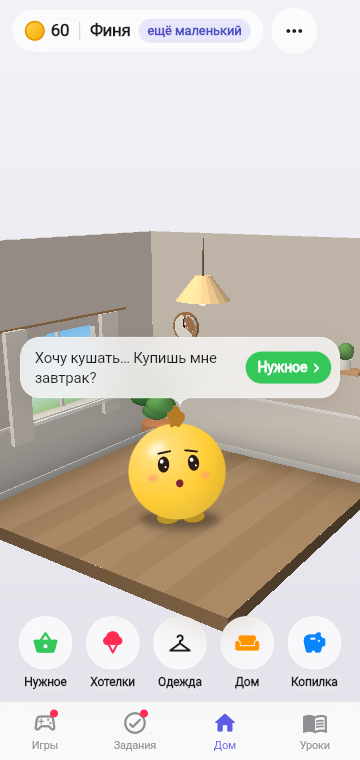
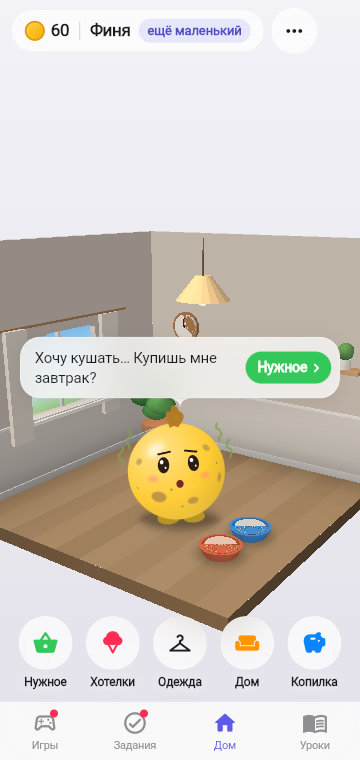
F-027: needs visible in the room — food and water bowls empty/full by today's purchases, grubby pet (mud spots, smell lines) until care is bought; business docs updated

diff --git a/client/lib/ui/room3d/room_builder.dart b/client/lib/ui/room3d/room_builder.dart
@@ -3,6 +3,7 @@ import 'dart:ui';
 
 import '../../store/snapshot.dart';
 import 'math3d.dart';
+import '../../game/bowls.dart';
 import 'mesh.dart';
 import 'renderer.dart';
 
@@ -22,7 +23,7 @@ abstract final class RoomBuilder {
   static const _lampPos = Vec3(-1.2, 0, 0.95);
   static const _pendantPos = Vec3(0.2, 2.75, -0.2);
 
-  static List<Mesh> build({required Inventory inventory, int room = 1, bool night = false}) {
+  static List<Mesh> build({required Inventory inventory, int room = 1, bool night = false, Bowls bowls = const Bowls()}) {
     final play = room == 2;
     final meshes = <Mesh>[];
     _shell(meshes, play: play, night: night);
@@ -44,8 +45,34 @@ abstract final class RoomBuilder {
           _console(meshes);
       }
     }
+    _bowls(meshes, bowls);
     _pendant(meshes, night: night);
     return meshes;
+  }
+
+  /// Миски справа от героя: еда (тёплая керамика) и вода (голубая). Пустые — видно дно.
+  static void _bowls(List<Mesh> m, Bowls b) {
+    const food = Vec3(1.25, 0, 0.95);
+    const water = Vec3(1.3, 0, 0.35);
+    for (final (at, rim, inside) in [
+      (food, const Color(0xFFE8744F), const Color(0xFFF7D9C9)),
+      (water, const Color(0xFF4C9BE8), const Color(0xFFE9E7E3)),
+    ]) {
+      m.add(Mesh.cylinder(0.2, 0.12, rim, seg: 22, topR: 0.26).translated(at));
+      // Внутренность миски: светлое дно с тёмным ободком — видно, что пусто.
+      m.add(Mesh.cylinder(0.225, 0.003, Color.lerp(rim, const Color(0xFF000000), 0.25)!, seg: 22, castShadow: false).translated(at + const Vec3(0, 0.12, 0)));
+      m.add(Mesh.cylinder(0.19, 0.004, inside, seg: 22, castShadow: false).translated(at + const Vec3(0, 0.121, 0)));
+    }
+    if (b.food) {
+      m.add(Mesh.sphere(0.19, const Color(0xFFF1C27D), lat: 6, lon: 14, castShadow: false).scaled(const Vec3(1, 0.4, 1)).translated(food + const Vec3(0, 0.1, 0)));
+      for (final (dx, dz) in [(-0.06, 0.03), (0.05, -0.04), (0.02, 0.07)]) {
+        m.add(Mesh.sphere(0.035, const Color(0xFFD6334F), lat: 4, lon: 6, castShadow: false).translated(food + Vec3(dx, 0.17, dz)));
+      }
+    }
+    if (b.water) {
+      m.add(Mesh.cylinder(0.215, 0.006, const Color(0xFF38A8FF), seg: 22, castShadow: false).translated(water + const Vec3(0, 0.126, 0)));
+      m.add(Mesh.cylinder(0.07, 0.004, const Color(0xFFE6F6FF), seg: 10, castShadow: false).translated(water + const Vec3(-0.06, 0.133, -0.05)));
+    }
   }
 
   static Lighting lighting({required Inventory inventory, int room = 1, bool night = false}) {

diff --git a/client/lib/ui/mascot/mascot_painter.dart b/client/lib/ui/mascot/mascot_painter.dart
@@ -65,6 +65,7 @@ final class MascotPainter extends CustomPainter {
     _back(canvas);
     _body(canvas);
     if (look.isMonkey) _muzzle(canvas);
+    if (look.grubby) _mud(canvas);
     _cheeks(canvas);
     if (look.isCat) _whiskers(canvas);
     _eyes(canvas);
@@ -72,6 +73,7 @@ final class MascotPainter extends CustomPainter {
     _mouth(canvas);
     if (look.hasHair) _hair(canvas, front: true);
     _accessories(canvas);
+    if (look.grubby) _stink(canvas);
     canvas.restore();
   }
 
@@ -337,6 +339,45 @@ final class MascotPainter extends CustomPainter {
       for (final tilt in [-0.07, 0.07]) {
         canvas.drawLine(p.offset, p.offset + Offset(side * _r * 0.42, tilt * _r * 1.6), paint);
       }
+    }
+  }
+
+  // ---------- Неухоженный (F-027) ----------
+
+  /// Мультяшные пятна грязи: мягкие, не страшные.
+  void _mud(Canvas canvas) {
+    const mud = Color(0xFF8B6A4A);
+    for (final (lat, lon, ry, rx, a) in const [
+      (-0.55, -0.55, 0.13, 0.17, 0.55),
+      (-0.7, 0.35, 0.09, 0.12, 0.5),
+      (0.45, 0.75, 0.08, 0.1, 0.45),
+      (-0.2, 1.05, 0.1, 0.08, 0.5),
+      (0.25, -0.95, 0.07, 0.09, 0.45),
+    ]) {
+      _patch(canvas, lat, lon, ry, rx, mud.withValues(alpha: a), blur: 0.012);
+    }
+    // брызги
+    for (final (lat, lon) in const [(-0.4, -0.2), (-0.85, 0.05), (0.1, 0.95), (-0.3, -1.1)]) {
+      _patch(canvas, lat, lon, 0.025, 0.025, mud.withValues(alpha: 0.6));
+    }
+  }
+
+  /// Волнистые линии «запаха» над головой.
+  void _stink(Canvas canvas) {
+    final paint = Paint()
+      ..color = const Color(0xFF7FA34A).withValues(alpha: 0.75)
+      ..style = PaintingStyle.stroke
+      ..strokeWidth = _r * 0.045
+      ..strokeCap = StrokeCap.round;
+    // По бокам головы, чтобы не прятались под облачком реплики.
+    for (final dx in [-1.08, -0.9, 0.9, 1.08]) {
+      final x0 = _c.dx + dx * _r + sin(pose.yaw * 3 + dx) * _r * 0.04;
+      final y0 = _c.dy - _r * (dx.abs() > 1 ? 0.2 : 0.55);
+      final path = Path()..moveTo(x0, y0);
+      for (var k = 1; k <= 5; k++) {
+        path.lineTo(x0 + sin(k * 1.5 + dx * 5) * _r * 0.06, y0 - k * _r * 0.075);
+      }
+      canvas.drawPath(path, paint);
     }
   }
 

diff --git a/client/lib/ui/room/room_scene.dart b/client/lib/ui/room/room_scene.dart
@@ -1,3 +1,4 @@
+import '../../game/bowls.dart';
 import 'dart:math';
 
 import 'package:flutter/scheduler.dart';
@@ -21,9 +22,13 @@ class RoomScene extends StatefulWidget {
     this.heroScale = 0.56,
     this.feetY = 0.68,
     this.animated = true,
+    this.bowls = const Bowls(),
   });
 
   final Inventory inventory;
+
+  /// Миски с едой и водой: полные, если нужное куплено (F-027).
+  final Bowls bowls;
   final int room;
   final bool night;
   final Widget? hero;
@@ -84,10 +89,10 @@ class _RoomSceneState extends State<RoomScene> with SingleTickerProviderStateMix
 
   void _ensureScene() {
     final inv = widget.inventory;
-    final key = '${inv.owned.toList()..sort()}|${inv.furniture}|${widget.room}|${widget.night}';
+    final key = '${inv.owned.toList()..sort()}|${inv.furniture}|${widget.room}|${widget.night}|${widget.bowls.key}';
     if (key == _key) return;
     _key = key;
-    _meshes = RoomBuilder.build(inventory: inv, room: widget.room, night: widget.night);
+    _meshes = RoomBuilder.build(inventory: inv, room: widget.room, night: widget.night, bowls: widget.bowls);
     _lighting = RoomBuilder.lighting(inventory: inv, room: widget.room, night: widget.night);
   }
 

diff --git a/client/lib/game/game_controller.dart b/client/lib/game/game_controller.dart
@@ -10,6 +10,7 @@ import '../store/profile_store.dart';
 import '../store/snapshot.dart';
 import 'game_feedback.dart';
 import 'quests.dart';
+import 'bowls.dart';
 
 /// Единая точка изменения состояния игры (SA F-006).
 final class GameController extends ChangeNotifier {
@@ -47,6 +48,13 @@ final class GameController extends ChangeNotifier {
   int get todaysNeedSum => todaysNeeds.fold(0, (s, i) => s + i.price);
   bool isBoughtToday(String itemId) => snapshot.boughtToday.contains(itemId);
   bool get needsDone => todaysNeeds.every((i) => isBoughtToday(i.id));
+
+  // Потребности видны в комнате (SA F-027).
+  bool _needToday(String id) => todaysNeeds.any((i) => i.id == id);
+  bool get foodServed => isBoughtToday('breakfast');
+  bool get waterServed => !_needToday('water') || isBoughtToday('water');
+  bool get isGrubby => _needToday('care') && !isBoughtToday('care');
+  Bowls get bowls => Bowls(food: foodServed, water: waterServed);
 
   // Сначала нужное (SA F-021).
   List<ShopItem> get needsLeft => [for (final i in todaysNeeds) if (!isBoughtToday(i.id)) i];

diff --git a/client/test/ui/room3d_test.dart b/client/test/ui/room3d_test.dart
@@ -4,6 +4,7 @@ import 'package:finni/ui/room3d/math3d.dart';
 import 'package:finni/ui/room3d/mesh.dart';
 import 'package:finni/ui/room3d/renderer.dart';
 import 'package:finni/ui/room3d/room_builder.dart';
+import 'package:finni/game/bowls.dart';
 import 'package:flutter/widgets.dart';
 import 'package:flutter_test/flutter_test.dart';
 
@@ -85,6 +86,14 @@ void main() {
       for (final f in ['sofa', 'shelf', 'tv', 'console']) {
         expect(count(Inventory.empty.copyWith(furniture: f)), greaterThan(empty), reason: f);
       }
+    });
+
+    test('full bowls add food and water to the room (F-027)', () {
+      int bowls(Bowls b, {int room = 1}) => RoomBuilder.build(inventory: Inventory.empty, room: room, bowls: b).length;
+      final empty = bowls(const Bowls(food: false, water: false));
+      expect(bowls(const Bowls(food: true, water: false)), greaterThan(empty));
+      expect(bowls(const Bowls(food: false, water: true)), greaterThan(empty));
+      expect(bowls(const Bowls(), room: 2), greaterThan(bowls(const Bowls(food: false, water: false), room: 2)));
     });
 
     test('playroom is a different scene', () {

diff --git a/client/test/game/game_controller_test.dart b/client/test/game/game_controller_test.dart
@@ -379,6 +379,25 @@ void main() {
     expect(game.mood, PetMood.glad);
   });
 
+  test('needs show in the room: bowls and grooming (F-027)', () async {
+    // день 1: завтрак, вода, уход
+    expect(game.foodServed, isFalse);
+    expect(game.waterServed, isFalse);
+    expect(game.isGrubby, isTrue);
+    await planAll(game, need: game.todaysNeedSum);
+    await game.buy('breakfast', commandId: game.newCommandId());
+    expect(game.foodServed, isTrue);
+    await game.buy('water', commandId: game.newCommandId());
+    expect(game.waterServed, isTrue);
+    await game.buy('care', commandId: game.newCommandId());
+    expect(game.isGrubby, isFalse);
+    expect(game.bowls.food && game.bowls.water, isTrue);
+    await game.endDay(); // день 2: завтрак и уход, воды нет в нужном
+    expect(game.foodServed, isFalse);
+    expect(game.waterServed, isTrue);
+    expect(game.isGrubby, isTrue);
+  });
+
   group('Finik style (F-023)', () {
     test('profile keeps the chosen skin, color and hair', () async {
       final g = await fresh();

diff --git a/client/lib/ui/mascot/mascot_look.dart b/client/lib/ui/mascot/mascot_look.dart
@@ -15,6 +15,7 @@ final class MascotLook {
     this.skin,
     this.accessories = const {},
     this.emotion,
+    this.grubby = false,
   });
 
   factory MascotLook.fromLook(
@@ -45,6 +46,7 @@ final class MascotLook {
       accessories: {
         for (final id in game.inventory.worn) ?content.item(id).accessory,
       },
+      grubby: game.isGrubby,
     );
   }
 
@@ -64,8 +66,11 @@ final class MascotLook {
   /// Эмоция желания (F-020). `null` — лицо по настроению дня.
   final PetEmotion? emotion;
 
+  /// Уход сегодня нужен и не куплен: пятна и «запах» (F-027).
+  final bool grubby;
+
   MascotLook withEmotion(PetEmotion? e) =>
-      MascotLook(color: color, hair: hair, mood: mood, stage: stage, skin: skin, accessories: accessories, emotion: e);
+      MascotLook(color: color, hair: hair, mood: mood, stage: stage, skin: skin, accessories: accessories, emotion: e, grubby: grubby);
 
   bool get isMonkey => skin == 'monkey';
   bool get isCat => skin == 'cat';

diff --git a/client/test/ui/mascot_test.dart b/client/test/ui/mascot_test.dart
@@ -110,7 +110,7 @@ void main() {
           MaterialApp(
             home: Center(
               child: MascotView(
-                look: MascotLook(color: const Color(0xFFFFCC33), hair: 'tuft', mood: PetMood.steady, stage: 2, emotion: e),
+                look: MascotLook(color: const Color(0xFFFFCC33), hair: 'tuft', mood: PetMood.steady, stage: 2, emotion: e, grubby: animated),
                 animated: animated,
               ),
             ),

diff --git a/client/lib/ui/screens/room_screen.dart b/client/lib/ui/screens/room_screen.dart
@@ -41,7 +41,7 @@ class _RoomScreenState extends State<RoomScreen> {
           ),
           body: Column(
             children: [
-              Expanded(child: RoomScene(inventory: game.inventory, room: _room)),
+              Expanded(child: RoomScene(inventory: game.inventory, room: _room, bowls: game.bowls)),
               Container(
                 color: FinniColors.surface,
                 child: SafeArea(

diff --git a/client/lib/ui/tabs/home_tab.dart b/client/lib/ui/tabs/home_tab.dart
@@ -75,6 +75,7 @@ class _HomeTabState extends State<HomeTab> {
             Positioned.fill(
               child: RoomScene(
                 inventory: game.inventory,
+                bowls: game.bowls,
                 room: room,
                 feetY: feetY,
                 heroScale: 0.78,

diff --git a/client/lib/game/bowls.dart b/client/lib/game/bowls.dart
@@ -1,0 +1,8 @@
+/// Миски у героя: полные, если нужное куплено (SA F-027).
+final class Bowls {
+  const Bowls({this.food = true, this.water = true});
+  final bool food;
+  final bool water;
+
+  String get key => '$food$water';
+}

diff --git a/docs/work/ui/F-027_NEEDS_IN_ROOM_SA_SPEC.md b/docs/work/ui/F-027_NEEDS_IN_ROOM_SA_SPEC.md
@@ -1,0 +1,75 @@
+# Потребности видны в комнате: миски и неухоженный питомец — системная спецификация (SA)
+
+| Поле | Значение |
+|------|----------|
+| **ID** | F-027 |
+| **Назначение** | Покупка нужного меняет мир героя: в комнате миска с едой и миска с водой (полные / пустые), а без ухода питомец выглядит неухоженным |
+| **Репозиторий** | `Pet_Finni_hackathon` |
+| **Источник** | Запрос Егора 2026-09-24: «если покупаем воду / еду / чистим персонажа — это должно отражаться в комнате: миска с едой и водой, пустая, если есть потребность; если надо провести уход — новое состояние питомца, неухоженный» |
+| **Статус** | Согласовано Егором 2026-09-24 |
+| **Участники** | Егор |
+| **Связанные артефакты** | F-019 (3D-комната), F-020 (желания и эмоции), F-021 (сначала нужное), F-007 (маскот) |
+
+---
+
+## 1. Контекст
+
+Сейчас покупка нужного видна только в тосте и в облачке: «Хочу кушать» сменяется следующим желанием. Ребёнку важно увидеть последствие своими глазами: купил — миска полная, не купил — пустая.
+
+## 2. Цель
+
+Состояние потребностей дня отображается предметами и обликом героя, без текста.
+
+## 3. Бизнес-требования
+
+| ID | Требование | Приоритет |
+|----|------------|-----------|
+| BR-01 | В комнате рядом с героем две миски: для еды и для воды | Must |
+| BR-02 | Миска с едой пустая, пока завтрак не куплен сегодня; после покупки — каша с ягодами | Must |
+| BR-03 | Миска с водой пустая, пока вода нужна сегодня и не куплена; после покупки или если вода сегодня не нужна — полная | Must |
+| BR-04 | Если уход нужен сегодня и не куплен — герой неухоженный: пятна грязи на теле и волнистые линии запаха над головой | Must |
+| BR-05 | После покупки ухода герой снова чистый | Must |
+| BR-06 | Новый день: карманные пришли, нужное снова нужно — миски пустые, герой снова просит уход | Must |
+| BR-07 | Миски видны в обеих комнатах (спальня и игровая) на Доме и в разделе «Дом» | Should |
+| BR-08 | Неухоженный вид — только на Доме и в разделах; в итоге дня герой показан чистым (день уже закончен) | Should |
+| BR-09 | Без стыда: грязь мультяшная, герой не болеет | Must |
+
+## 4. Описание
+
+```
+foodServed  = куплен breakfast сегодня
+waterServed = water не в нужном дня || куплена water сегодня
+grubby      = care в нужном дня && care не куплен сегодня
+```
+
+| Слой | Путь |
+|------|------|
+| Правило | `client/lib/game/game_controller.dart` (`foodServed`, `waterServed`, `isGrubby`) |
+| Комната | `client/lib/ui/room3d/room_builder.dart` (`Bowls`, `_bowls`), `ui/room/room_scene.dart` (параметр `bowls`) |
+| Маскот | `client/lib/ui/mascot/mascot_look.dart` (`grubby`), `mascot_painter.dart` (`_mud`, `_stink`) |
+| Экраны | `ui/tabs/home_tab.dart`, `ui/screens/room_screen.dart` |
+
+## 6. Матрица исходов
+
+| ID | Условие | Результат |
+|----|---------|-----------|
+| S-01 | Утро, ничего не куплено (день с водой и уходом) | Обе миски пустые, герой неухоженный |
+| S-02 | Куплен завтрак | Миска с кашей |
+| S-03 | Куплена вода | Миска с водой полная |
+| S-04 | Куплен уход | Герой чистый |
+| S-05 | День без воды в нужном | Миска с водой полная с утра |
+| S-06 | Следующий день | Миски снова пустые, уход снова нужен |
+
+## 8. API
+
+```dart
+final class Bowls { const Bowls({this.food = true, this.water = true}); final bool food, water; }
+static List<Mesh> RoomBuilder.build({required Inventory inventory, int room = 1, bool night = false, Bowls bowls = const Bowls()});
+RoomScene({..., Bowls bowls = const Bowls()});
+class MascotLook { final bool grubby; }
+class GameController { bool get foodServed; bool get waterServed; bool get isGrubby; Bowls get bowls; }
+```
+
+## 9. Тестирование
+
+`game_controller_test`: состояния мисок и ухода за день; `room3d_test`: полные миски добавляют меши; `mascot_test`: неухоженный рендерится во всех эмоциях.
